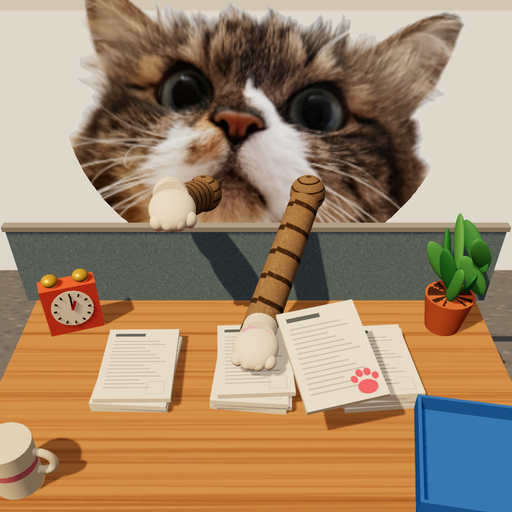
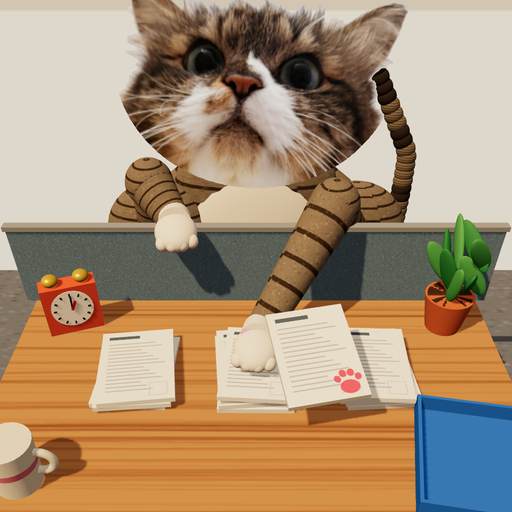
WIP: 猫の手も借りたい 猫に胴体・肘のある腕・しっぽを追加
Claude-Session: https://claude.ai/code/session_018pgCC28uE71hDiVPdHW87C

diff --git a/games/neko-no-te/index.html b/games/neko-no-te/index.html
@@ -382,22 +382,41 @@
     const cat = new THREE.Mesh(new THREE.PlaneGeometry(1, 1), new THREE.MeshBasicMaterial({ map: catTex, fog: false, alphaTest: 0.5, depthTest: false, depthWrite: false }));
     cat.renderOrder = -1; // 壁の次に描き、仕切りや机はその上に描く（位置と大きさは resize で画面に合わせる）
     scene.add(cat);
-    const catBase = { pos: new THREE.Vector3(), scale: 1, up: new THREE.Vector3() };
+    const catBase = { pos: new THREE.Vector3(), scale: 1, up: new THREE.Vector3(), S: 1, perPx: 1 };
+    const bodyBase = { pos: new THREE.Vector3(), w: 6, perPx: 1 };
 
     // 猫の前足（茶トラの腕＋白い手先＋ピンクの肉球）
     const stripe = canvasTex(64, 256, (g, w, h) => {
-      g.fillStyle = '#8f7558'; g.fillRect(0, 0, w, h);
+      g.fillStyle = '#857766'; g.fillRect(0, 0, w, h);
       for (let y = 0; y < h; y += 43) { g.fillStyle = 'rgba(48,34,22,0.8)'; g.beginPath(); g.moveTo(0, y); g.bezierCurveTo(w * 0.3, y + 8, w * 0.7, y - 4, w, y + 6); g.lineTo(w, y + 14); g.bezierCurveTo(w * 0.7, y + 4, w * 0.3, y + 16, 0, y + 9); g.fill(); }
       for (let i = 0; i < 900; i++) { g.fillStyle = `rgba(${Math.random() < 0.5 ? '255,230,200' : '40,20,10'},${Math.random() * 0.25})`; g.fillRect(Math.random() * w, Math.random() * h, 1, 3); }
     });
     stripe.wrapS = stripe.wrapT = THREE.RepeatWrapping; stripe.repeat.set(2, 1);
     const FUR = mat('#ffffff', 0.95, { map: stripe }), SOCK = mat('#f6efe4', 0.95), BEAN = mat('#f08aa0', 0.45);
-    const ARM_G = new THREE.CylinderGeometry(0.34, 0.3, 1, 20, 1, true); ARM_G.translate(0, 0.5, 0);
+    const fur2 = stripe.clone(); fur2.needsUpdate = true; fur2.repeat.set(3, 2);
+    const BODY_FUR = mat('#ffffff', 0.95, { map: fur2 }), DARK_FUR = mat('#3e352e', 0.95);
+    // 胴体: 仕切りの向こう、顔の下につながる（単位は顔の幅。大きさと位置は resize で合わせる）
+    const body = new THREE.Group(); scene.add(body);
+    {
+      part(SPH, BODY_FUR, 0, -0.62, -0.12, 0.55, 0.62, 0.12, body);       // 胴
+      part(SPH, BODY_FUR, 0, -0.16, -0.04, 0.3, 0.26, 0.1, body);         // 首
+      part(SPH, SOCK, 0, -0.34, 0.0, 0.26, 0.34, 0.09, body);             // 白い胸毛
+      for (const s of [-1, 1]) part(SPH, BODY_FUR, s * 0.36, -0.3, 0.0, 0.2, 0.2, 0.1, body); // 肩
+    }
+    // しっぽ: 顔の横で揺れる（しま模様）
+    const tail = [];
+    const TAIL_N = 36;
+    for (let i = 0; i < TAIL_N; i++) { const m = part(SPH, i > TAIL_N - 6 || i % 7 >= 5 ? DARK_FUR : BODY_FUR, 0, 0, 0, 1, 1, 1, body); tail.push(m); }
+    body.traverse(m => { if (m.isMesh) { m.renderOrder = -2; m.castShadow = true; } });
+    const SHOULDER = [-1, 1].map(s => new THREE.Vector3(s * 0.36, -0.3, 0.04));
+    // 腕: 肩から肘、肘から手首の2本。肩側が太く、手首に向かって細くなる
+    const UPPER_G = new THREE.CylinderGeometry(0.85, 1, 1, 20, 1, true); UPPER_G.translate(0, 0.5, 0);
+    const FORE_G = new THREE.CylinderGeometry(0.6, 1, 1, 20, 1, true); FORE_G.translate(0, 0.5, 0);
     const arms = [-1, 1].map(s => {
-      const shoulder = new THREE.Vector3(s * 1.05, PART_H + 0.55, PART_Z - 0.55);
-      const rest = new THREE.Vector3(s * 1.45, PART_H + 0.75, -1.65);
-      const arm = new THREE.Mesh(ARM_G, FUR);
-      const sh = part(SPH, FUR, 0, 0, 0, 0.36, 0.36, 0.36); sh.position.copy(shoulder);
+      const shoulder = new THREE.Vector3(s * 1.2, PART_H, PART_Z - 1.5);
+      // 待っている間は、両手を仕切りのふちに乗せてのぞき込む
+      const rest = new THREE.Vector3(s * 1.55, PART_H - 0.14, PART_Z + 0.32);
+      const upper = new THREE.Mesh(UPPER_G, FUR), fore = new THREE.Mesh(FORE_G, FUR), elbow = new THREE.Mesh(SPH, FUR);
       const paw = new THREE.Group();
       // 手首と手先: 白い靴下、丸い指4本、裏にピンクの肉球
       part(SPH, SOCK, 0, 0, 0, 0.42, 0.3, 0.5, paw);
@@ -408,8 +427,8 @@
       }
       part(SPH, BEAN, 0, -0.27, 0.0, 0.22, 0.05, 0.2, paw);
       const wrist = part(CYL, SOCK, 0, 0.0, -0.35, 0.33, 0.45, 0.33, paw); wrist.rotation.x = Math.PI / 2 - 0.4;
-      scene.add(shade(arm)); scene.add(shade(sh)); scene.add(shade(paw));
-      const a = { s, shoulder, rest, arm, sh, paw, t: 9, from: rest.clone(), target: rest.clone(), cur: rest.clone(), squash: 0, lift: 0 };
+      for (const o of [upper, fore, elbow, paw]) scene.add(shade(o));
+      const a = { s, shoulder, rest, upper, fore, elbow, paw, t: 9, from: rest.clone(), target: rest.clone(), cur: rest.clone(), squash: 0, lift: 0 };
       return a;
     });
     let nextArm = 0;
@@ -427,14 +446,17 @@
       return out;
     }
     const tmpV = new THREE.Vector3(), Y_UP = new THREE.Vector3(0, 1, 0);
+    const seg = (m, from, to, r) => { const d = to.clone().sub(from), len = d.length(); m.position.copy(from); m.quaternion.setFromUnitVectors(Y_UP, d.normalize()); m.scale.set(r, len, r); };
     function placeArm(a, time) {
       armPose(a, a.cur);
-      if (a.t > 1.1 && !a.lift) { a.cur.y += Math.sin(time * 2.2 + a.s) * 0.06; a.cur.x += Math.sin(time * 1.3 + a.s * 2) * 0.04; }
-      const wristP = tmpV.set(0, 0.12, -0.45).add(a.cur);
-      const d = wristP.clone().sub(a.shoulder), len = d.length();
-      a.arm.position.copy(a.shoulder);
-      a.arm.quaternion.setFromUnitVectors(Y_UP, d.normalize());
-      a.arm.scale.set(1, len, 1);
+      if (a.t > 1.1 && !a.lift) { a.cur.y += Math.max(0, Math.sin(time * 2.2 + a.s)) * 0.08; a.cur.x += Math.sin(time * 1.3 + a.s * 2) * 0.03; }
+      const wristP = new THREE.Vector3(0, 0.12, -0.45).add(a.cur);
+      // 肘は仕切りより上に来るように持ち上げ、少し外へ張る
+      const E = a.shoulder.clone().lerp(wristP, 0.42);
+      E.y = Math.max(E.y, PART_H + 0.4) + 0.2; E.x += a.s * 0.25;
+      const r1 = THREE.MathUtils.clamp(bodyBase.w * 0.07, 0.45, 0.72), re = Math.max(0.5, r1 * 0.85);
+      seg(a.upper, a.shoulder, E, r1); seg(a.fore, E, wristP, re);
+      a.elbow.position.copy(E); a.elbow.scale.setScalar(re);
       a.paw.position.copy(a.cur).setY(a.cur.y + 0.27);
       // 崩れた時はバンザイして、ピンクの肉球をこちらに見せる
       const lk = Math.min(1, a.lift / 1.4);
@@ -524,8 +546,9 @@
       // 猫: 仕切りの上端にあごが隠れるように、カメラに正対させて置く
       const top = new THREE.Vector3(0, PART_H + 0.1, PART_Z).project(camera);
       const P = (1 - top.y) / 2 * H; // 仕切り上端の画面上の高さ（px）
-      const S = Math.max(60, Math.min((P - 6) / 0.6, w * 0.92, 900));
-      const cy = P - 0.3 * S;
+      // あごの下に胸が少し見えるよう、顔は仕切りより少し上に置く
+      const S = Math.max(60, Math.min((P - 6) / 0.84, w * 0.86, 900));
+      const cy = P - 0.54 * S;
       const L = d + 14, perPx = 2 * L * Math.tan(vf / 2) / fh;
       const vp = new THREE.Vector3(((w / 2) / w) * 2 - 1 + 0, 1 - 2 * cy / H, 0.5).unproject(camera);
       // setViewOffset のため x はそのまま中央で良い
@@ -533,6 +556,14 @@
       catBase.scale = S * perPx;
       catBase.up.set(0, 1, 0).applyQuaternion(camera.quaternion);
       cat.quaternion.copy(camera.quaternion);
+      catBase.S = S; catBase.perPx = perPx;
+      // 胴体: 顔の下、仕切りの向こうの面に置き、顔の幅に合わせる
+      const toPlane = (sx, sy, z) => { const v = new THREE.Vector3(sx / w * 2 - 1, 1 - 2 * sy / H, 0.5).unproject(camera).sub(camera.position).normalize(); return camera.position.clone().addScaledVector(v, (z - camera.position.z) / v.z); };
+      const BZ = PART_Z - 1.7, neckY = cy + 0.3 * S;
+      bodyBase.pos.copy(toPlane(w / 2, neckY, BZ));
+      bodyBase.w = toPlane(w / 2 + 0.5 * S, neckY, BZ).distanceTo(bodyBase.pos) * 2;
+      bodyBase.perPx = bodyBase.w / S;
+      body.scale.setScalar(bodyBase.w);
     }
     addEventListener('resize', resize);
 
@@ -781,11 +812,18 @@
       }
       for (const f of falling) { const p = PILES[f.pi]; f.g.position.set(p.x + (f.g.userData.sx || 0), f.py + (f.y - f.py) * alpha, p.z); }
       for (const d of debris) d.m.position.lerpVectors(d.pp, d.p, d.rest ? 1 : alpha);
-      for (const a of arms) placeArm(a, time);
       // 猫: 崩れると飛び上がって震える
       const jump = state === 'over' || state === 'result' ? Math.min(1, overT * 5) : 0;
       const shake = state === 'over' ? Math.sin(time * 60) * 0.015 * Math.max(0, 1 - overT) : 0;
-      cat.position.copy(catBase.pos).addScaledVector(catBase.up, catBase.scale * (0.16 * jump + 0.012 * Math.sin(time * 1.6)));
+      const liftPx = catBase.S * (0.16 * jump + 0.012 * Math.sin(time * 1.6));
+      cat.position.copy(catBase.pos).addScaledVector(catBase.up, liftPx * catBase.perPx);
+      body.position.copy(bodyBase.pos).addScaledVector(catBase.up, liftPx * bodyBase.perPx);
+      // しっぽ: 胴の横から立ち上がり、先が内側に丸まって揺れる
+      const wag = state === 'over' ? 9 : 2.2, puff = state === 'over' || state === 'result' ? 1.35 : 1;
+      tail.forEach((m, i) => { const u = i / (tail.length - 1); m.position.set(0.5 + 0.12 * u + Math.sin(time * wag - u * 2.5) * 0.09 * u - Math.max(0, u - 0.7) * 0.5, -0.85 + 1.1 * u, -0.2); const r = (0.048 - u * 0.016) * puff; m.scale.set(r, r, r * 0.8); });
+      body.updateMatrixWorld(true);
+      arms.forEach((a, i) => a.shoulder.copy(SHOULDER[i]).applyMatrix4(body.matrixWorld));
+      for (const a of arms) placeArm(a, time);
       cat.scale.setScalar(catBase.scale * (1 + 0.12 * jump));
       cat.rotation.z = shake;
       // 置き時計: 忙しくなるほど針が速く回る
